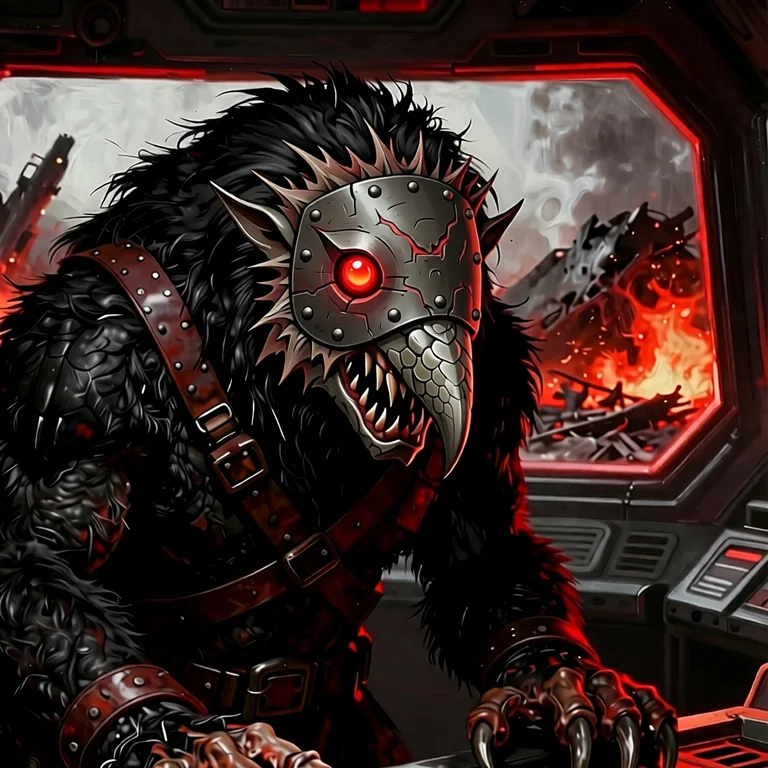
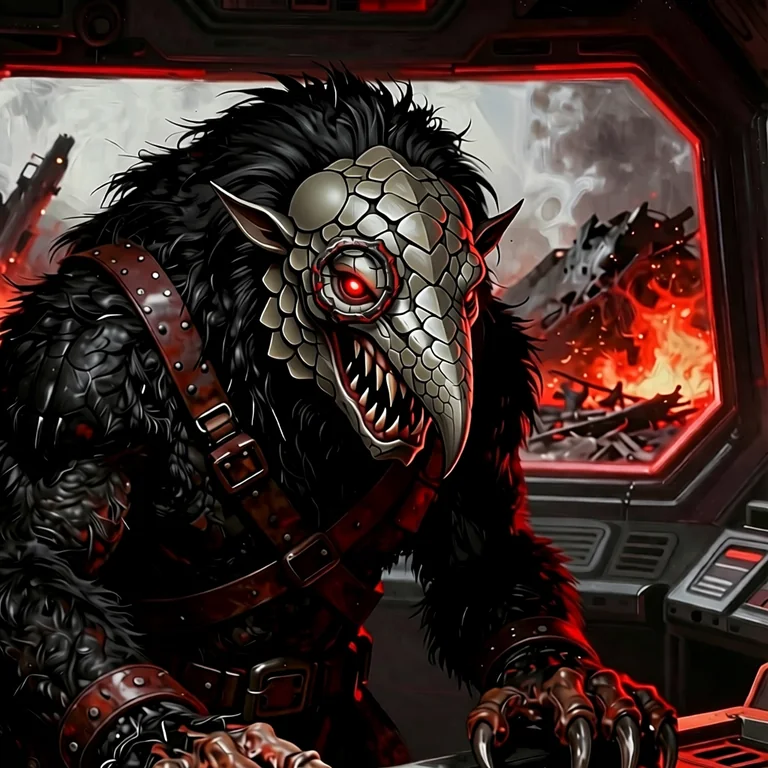
P: fix the v64_publish.py pick line broken in 7da61cf and publish Hullbreaker Nemesis 2's eye-ring implant scar
Claude-Session: https://claude.ai/code/session_01TX7Q24QdU9ZhdJ2eQued6X

Changed region(s): [[0.3125, 0.1562, 0.6562, 0.5312]]

diff --git a/tools/portraits/v64_publish.py b/tools/portraits/v64_publish.py
@@ -86,7 +86,7 @@ SCAR = {
  # s68h (Glasswright Nemesis 2; Hullbreaker Nemesis 1, 2, 3, 5: their implant plates grew into riveted face masks on 1, 3 and 5,
  # redone in s68i with a small eye-socket ring; Crusade Nemesis 3)
  'nem_ithar_2': {'burn': 23, 'porcelain': 23},
- 'nem_corsair_1': {'burn': 11, 'cyber': 51, 'eye': 11}, 'nem_corsair_2': {'burn': 11, 'cyber': 51, 'eye': 11}  # cyber from s68j,
+ 'nem_corsair_1': {'burn': 11, 'cyber': 51, 'eye': 11}, 'nem_corsair_2': {'burn': 11, 'cyber': 51, 'eye': 11},  # Nemesis 2 cyber from s68j
  'nem_corsair_3': {'burn': 11, 'cyber': 37, 'eye': 23}, 'nem_corsair_5': {'burn': 11, 'cyber': 37, 'eye': 11},
  'nem_corsair_4': {'burn': 11, 'cyber': 11, 'eye': 11}, 'nem_corsair_6': {'burn': 11, 'cyber': 11, 'eye': 23},  # s68i
  'nem_voidsworn_3': {'burn': 23, 'eye': 11},
